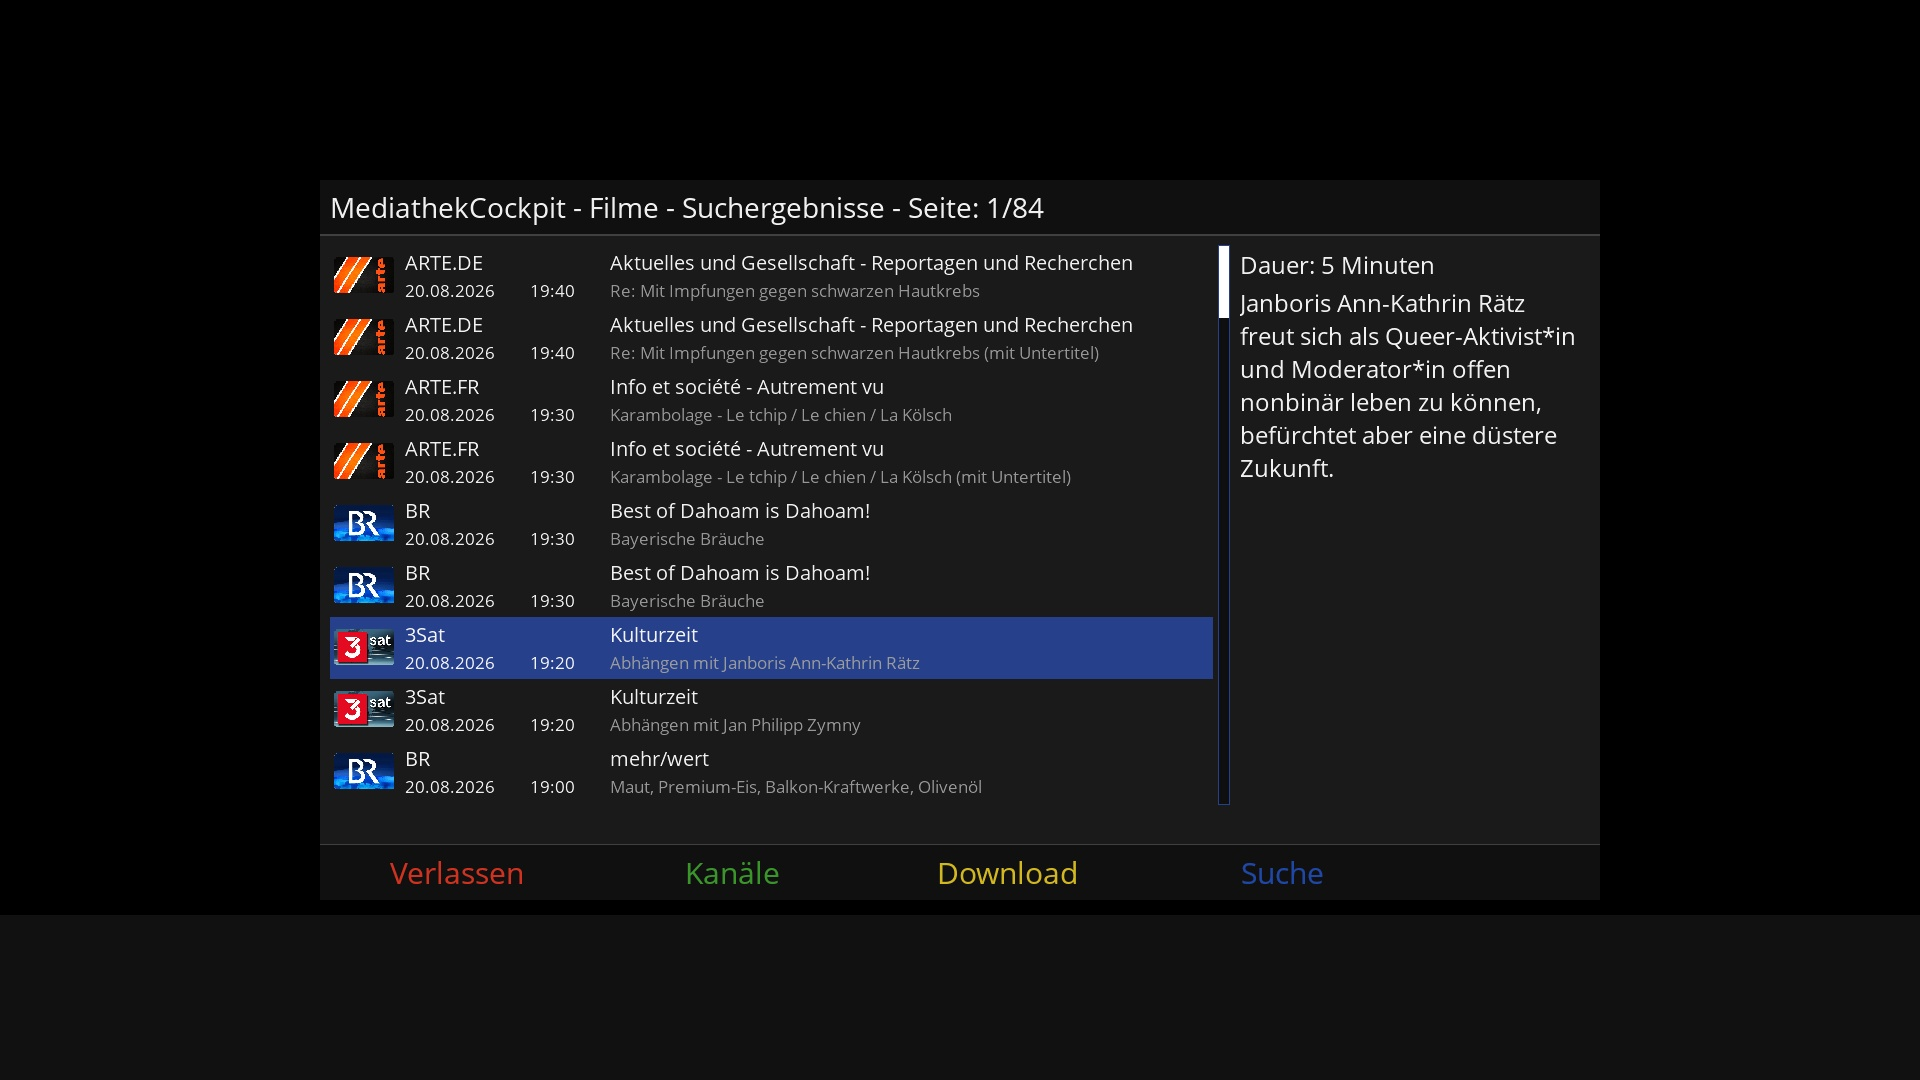
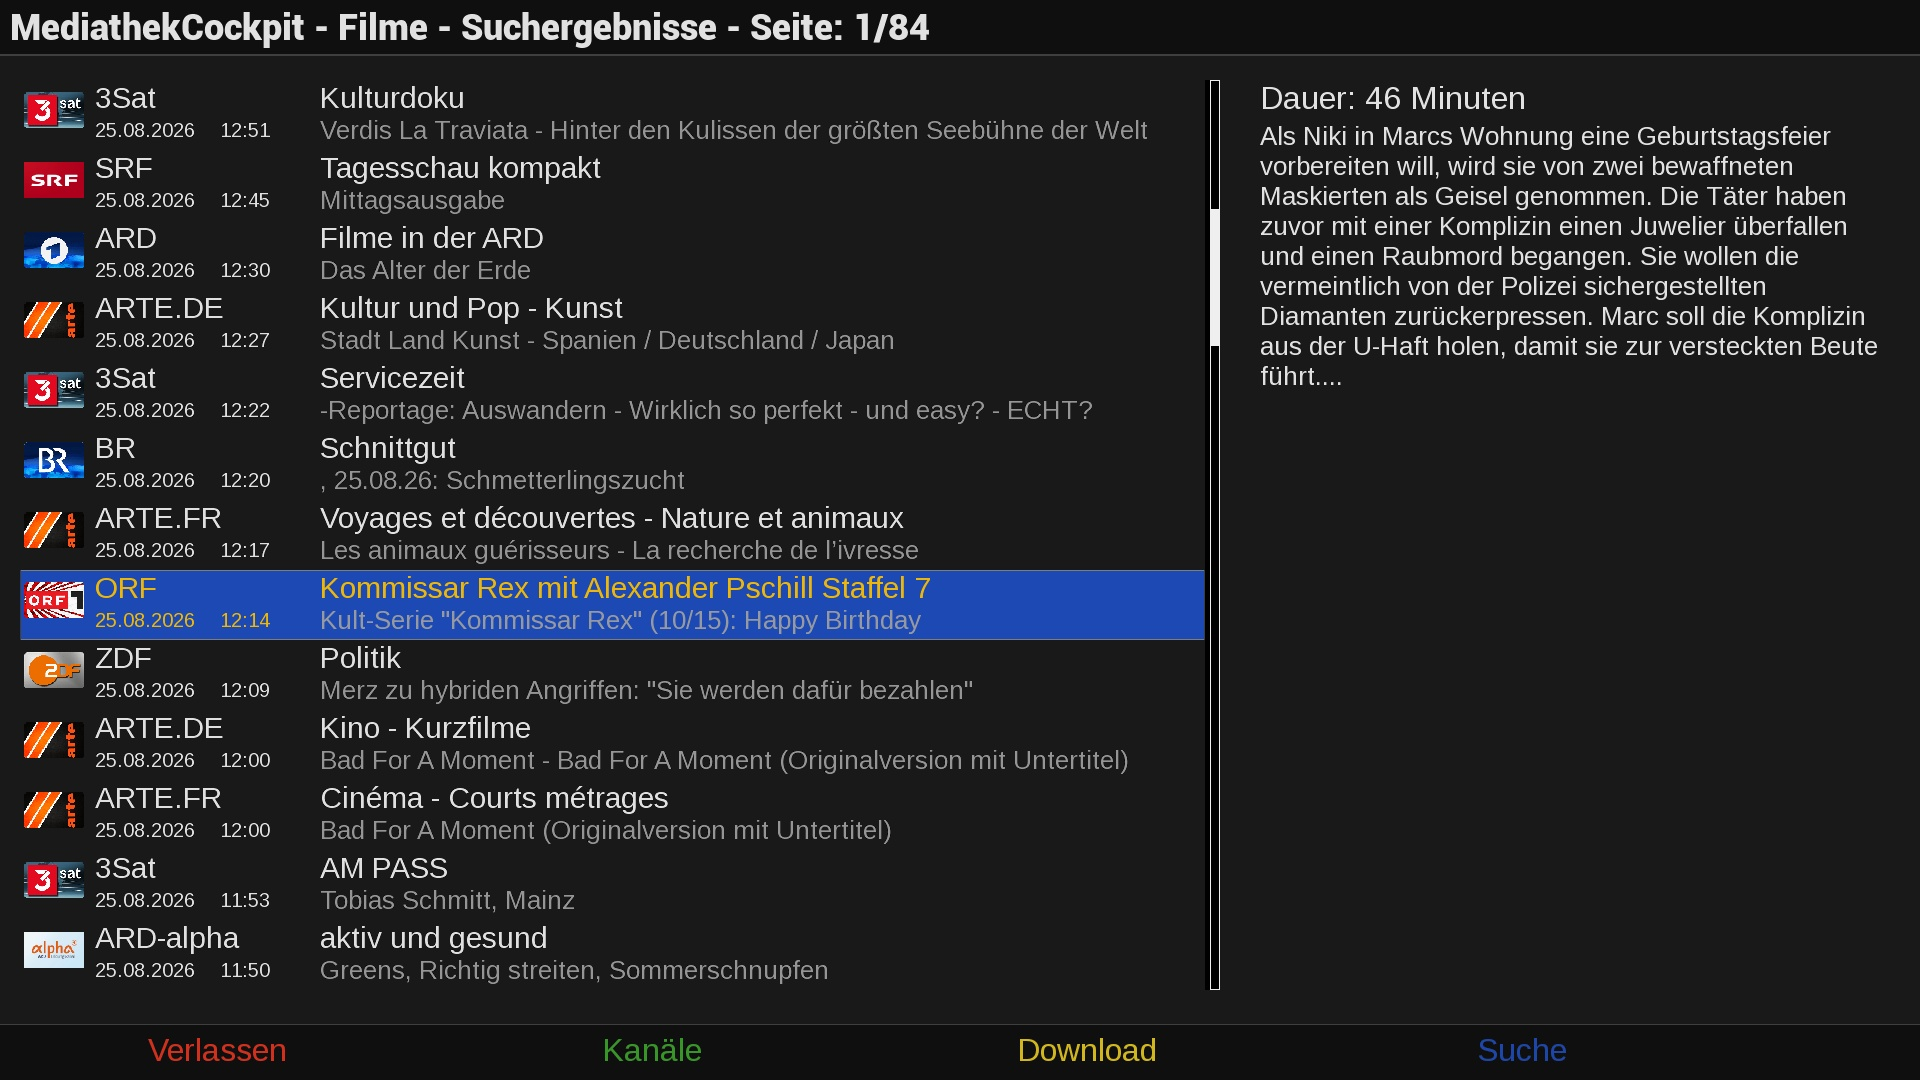
0.5.3

diff --git a/docs/index.html b/docs/index.html
@@ -4,7 +4,7 @@
 		To install the MediathekCockpit plugin execute the following commands in a telnet console on your Enigma2 box:
 		<ul>
 			<li>opkg install wget (required the first time only)
-			<li>wget https://xcentaurix.github.io/MediathekCockpit/mediathekcockpit.sh -O - | /bin/sh
+			<li>wget https://OpenCockpit.github.io/MediathekCockpit/mediathekcockpit.sh -O - | /bin/sh
 		</ul>
 		The installation script will also install a feed source that enables a convenient upgrade to the latest version with the following commands or automatically as part of an Enigma2 image upgrade:
 		<ul>

diff --git a/src/CockpitPlayer.py b/src/CockpitPlayer.py
@@ -93,7 +93,7 @@ class CockpitPlayer(
 
         self.service_started = False
         self.cut_list = []
-        self.resume_point = 0
+        self.mtc_resume_point = 0
 
         self.onShown.append(self.__onShown)
 
@@ -121,10 +121,10 @@ class CockpitPlayer(
         if hasattr(self, "config_plugins_plugin"):
             self.downloadCuesheet()
             if self.config_plugins_plugin.movie_resume_at_last_pos.value:
-                self.resume_point = getCutListLast(self.cut_list)
-                if self.resume_point > 0:
-                    seconds = ptsToSeconds(self.resume_point)
-                    logger.debug("resume_point: %s", seconds)
+                self.mtc_resume_point = getCutListLast(self.cut_list)
+                if self.mtc_resume_point > 0:
+                    seconds = ptsToSeconds(self.mtc_resume_point)
+                    logger.debug("mtc_resume_point: %s", seconds)
                     Notifications.AddNotificationWithCallback(
                         self.__serviceStartedCallback,
                         MessageBox,
@@ -141,9 +141,9 @@ class CockpitPlayer(
 
     def __serviceStartedCallback(self, answer):
         logger.info("answer: %s", answer)
-        if answer and self.resume_point:
-            logger.debug("Seeking to resume_point: %s", self.resume_point)
-            self.doSeek(int(self.resume_point))
+        if answer and self.mtc_resume_point:
+            logger.debug("Seeking to mtc_resume_point: %s", self.mtc_resume_point)
+            self.doSeek(int(self.mtc_resume_point))
         elif self.config_plugins_plugin.movie_start_position.value == "first_mark":
             first_mark = getCutListFirst(self.cut_list, config.recording.margin_before.value * 60)
             if first_mark:

diff --git a/src/Version.py b/src/Version.py
@@ -1,10 +1,9 @@
-# coding=utf-8
 # Copyright (C) 2018-2026 by xcentaurix
 # License: GNU General Public License v3.0
 
 
 PLUGIN = "MediathekCockpit"
 ID = "MTC"
-VERSION = "0.4.3"
+VERSION = "0.5.3"
 COPYRIGHT = "2018-2026 by xcentaurix"
 LICENSE = "This program is free software: you can redistribute it and/or modify it under the terms of the GNU General Public License as published by the Free Software Foundation, either version 3 of the License, or (at your option) any later version."

diff --git a/src/ChannelUtils.py b/src/ChannelUtils.py
@@ -1,4 +1,3 @@
-# coding=utf-8
 # Copyright (C) 2018-2026 by xcentaurix
 # License: GNU General Public License v3.0
 

diff --git a/src/CockpitSeek.py b/src/CockpitSeek.py
@@ -1,4 +1,3 @@
-# coding=utf-8
 # Copyright (C) 2018-2026 by xcentaurix
 # License: GNU General Public License v3.0
 

diff --git a/src/ConfigInit.py b/src/ConfigInit.py
@@ -1,4 +1,3 @@
-# coding=utf-8
 # Copyright (C) 2018-2026 by xcentaurix
 # License: GNU General Public License v3.0
 

diff --git a/src/Constants.py b/src/Constants.py
@@ -1,4 +1,3 @@
-# coding=utf-8
 # Copyright (C) 2018-2026 by xcentaurix
 # License: GNU General Public License v3.0
 

diff --git a/src/DownloadJob.py b/src/DownloadJob.py
@@ -1,4 +1,3 @@
-# coding=utf-8
 # Copyright (C) 2018-2026 by xcentaurix
 # License: GNU General Public License v3.0
 

diff --git a/src/DownloadTask.py b/src/DownloadTask.py
@@ -1,4 +1,3 @@
-# coding=utf-8
 # Copyright (C) 2018-2026 by xcentaurix
 # License: GNU General Public License v3.0
 

diff --git a/src/EventInfo.py b/src/EventInfo.py
@@ -1,4 +1,3 @@
-# coding=utf-8
 # Copyright (C) 2018-2026 by xcentaurix
 # License: GNU General Public License v3.0
 

diff --git a/src/HLSParser.py b/src/HLSParser.py
@@ -1,4 +1,3 @@
-# coding=utf-8
 # Copyright (C) 2018-2026 by xcentaurix
 # License: GNU General Public License v3.0
 

diff --git a/src/MediathekCockpit.py b/src/MediathekCockpit.py
@@ -1,4 +1,3 @@
-# coding=utf-8
 # Copyright (C) 2018-2026 by xcentaurix
 # License: GNU General Public License v3.0
 
